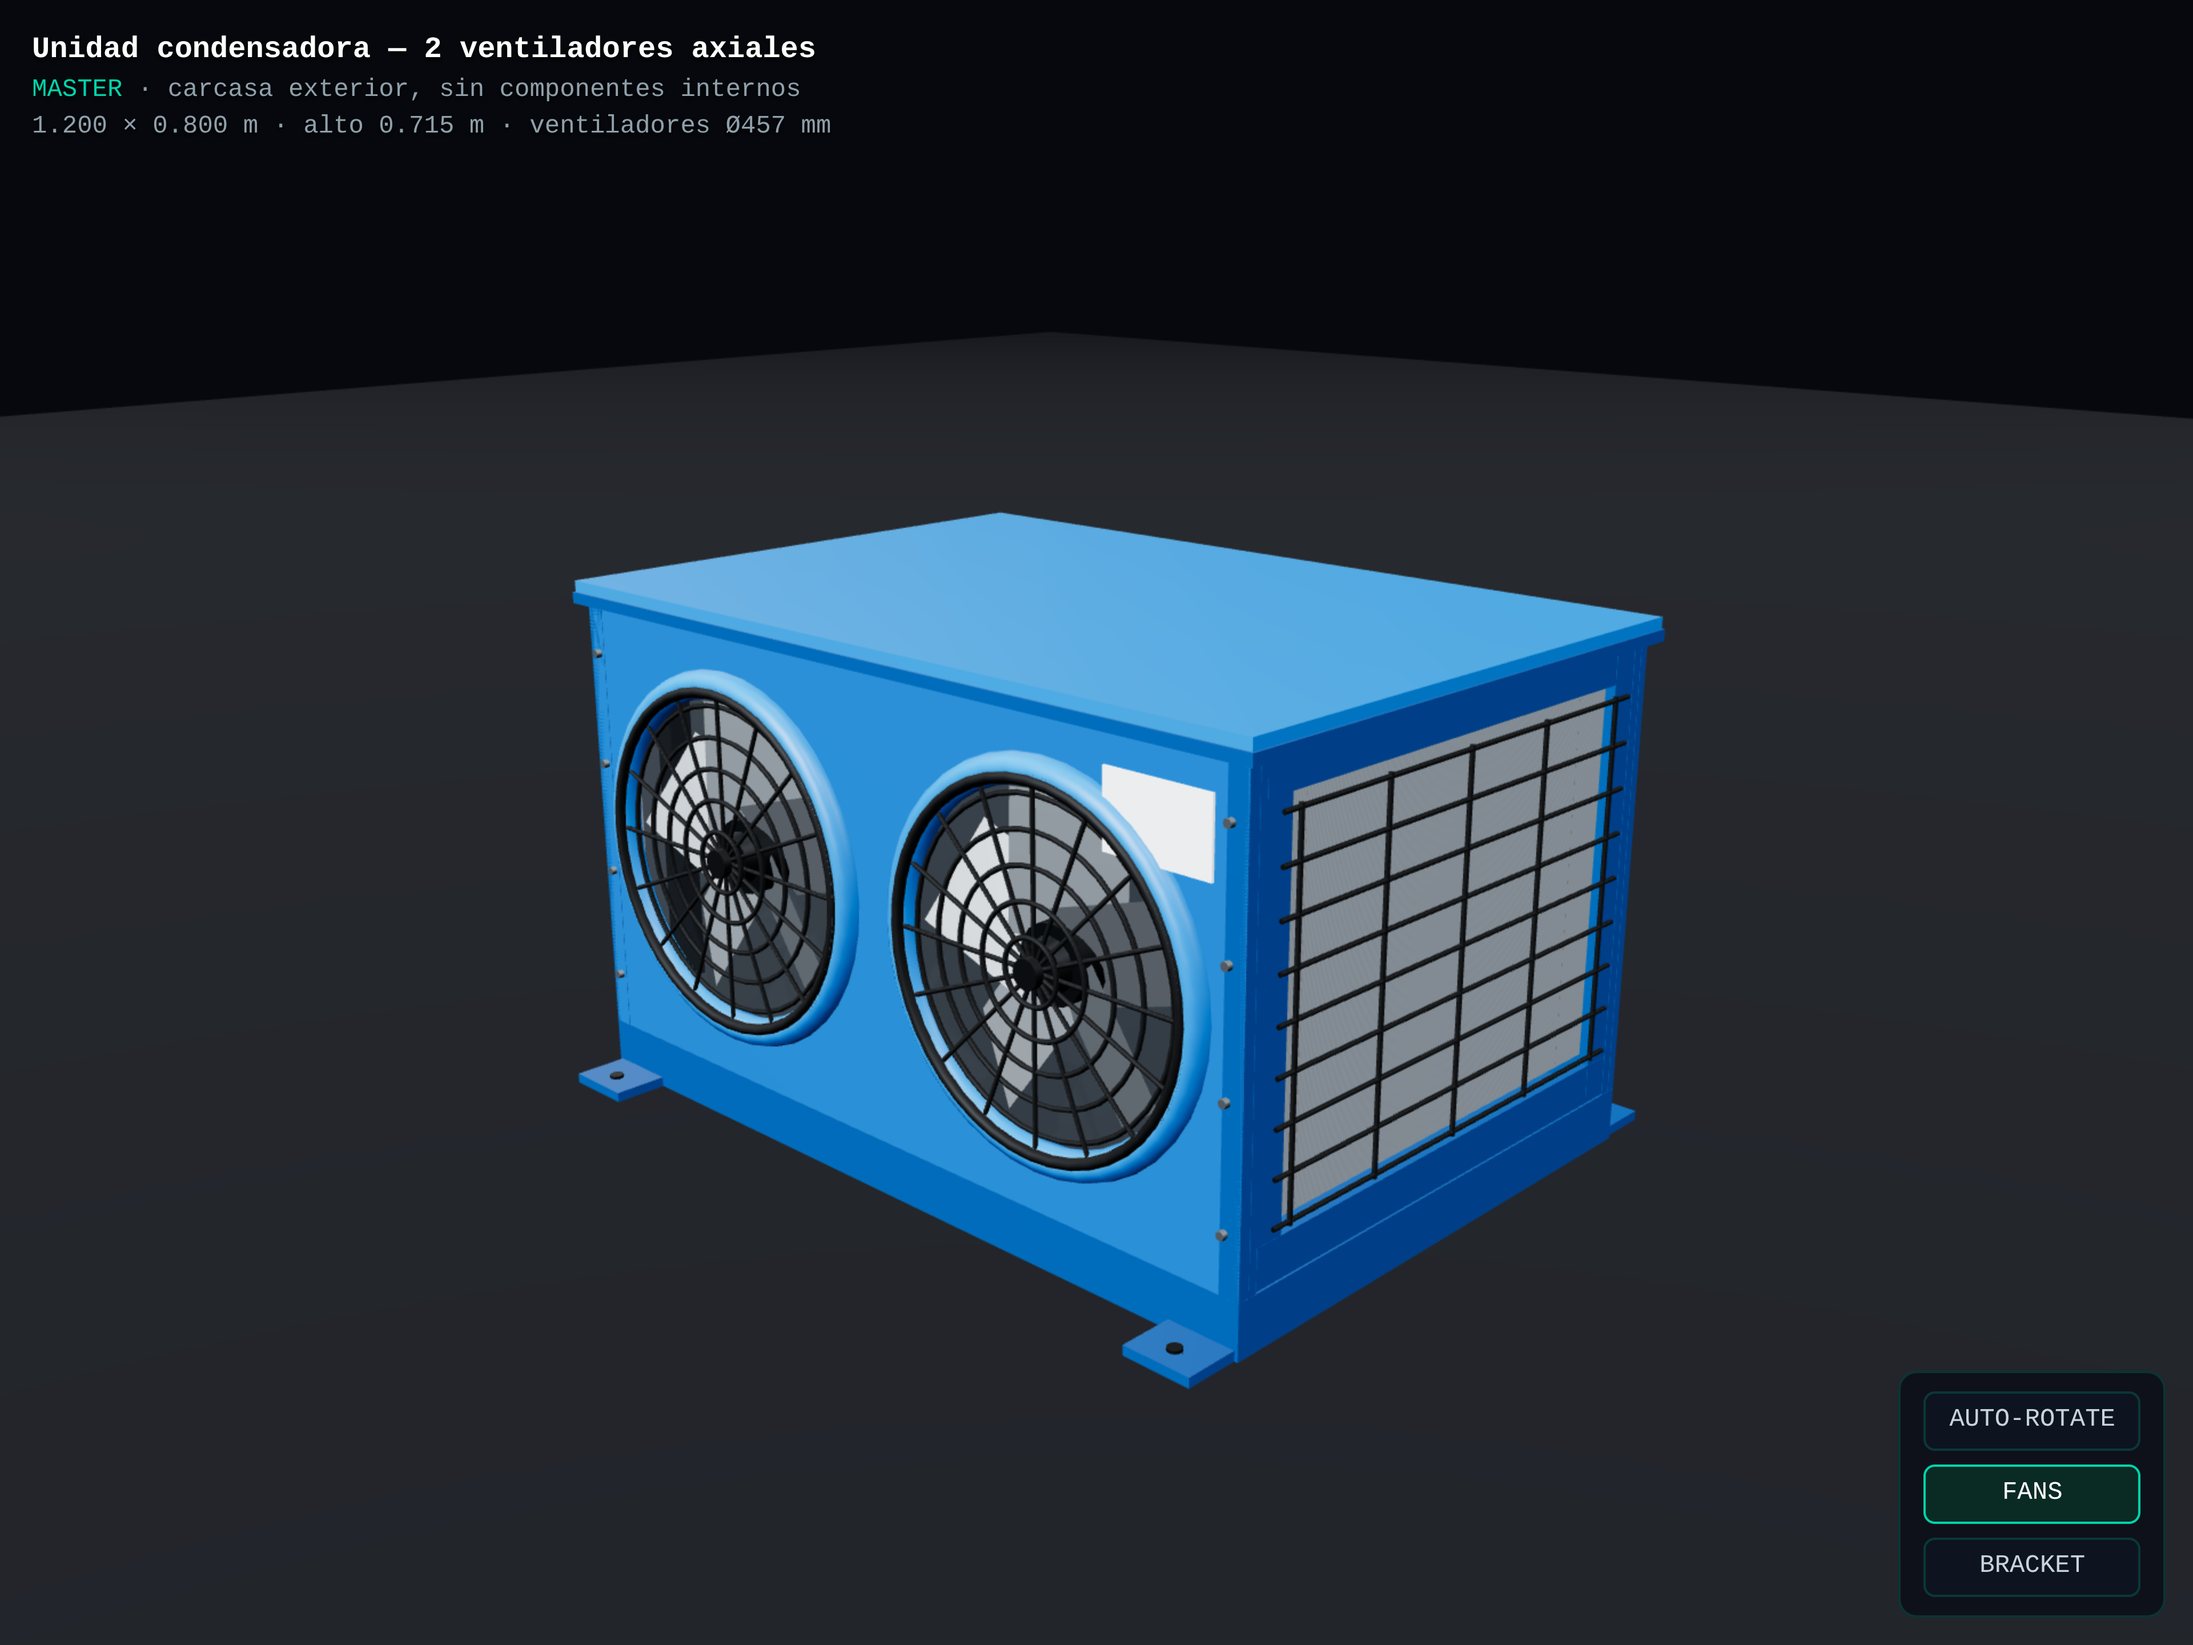
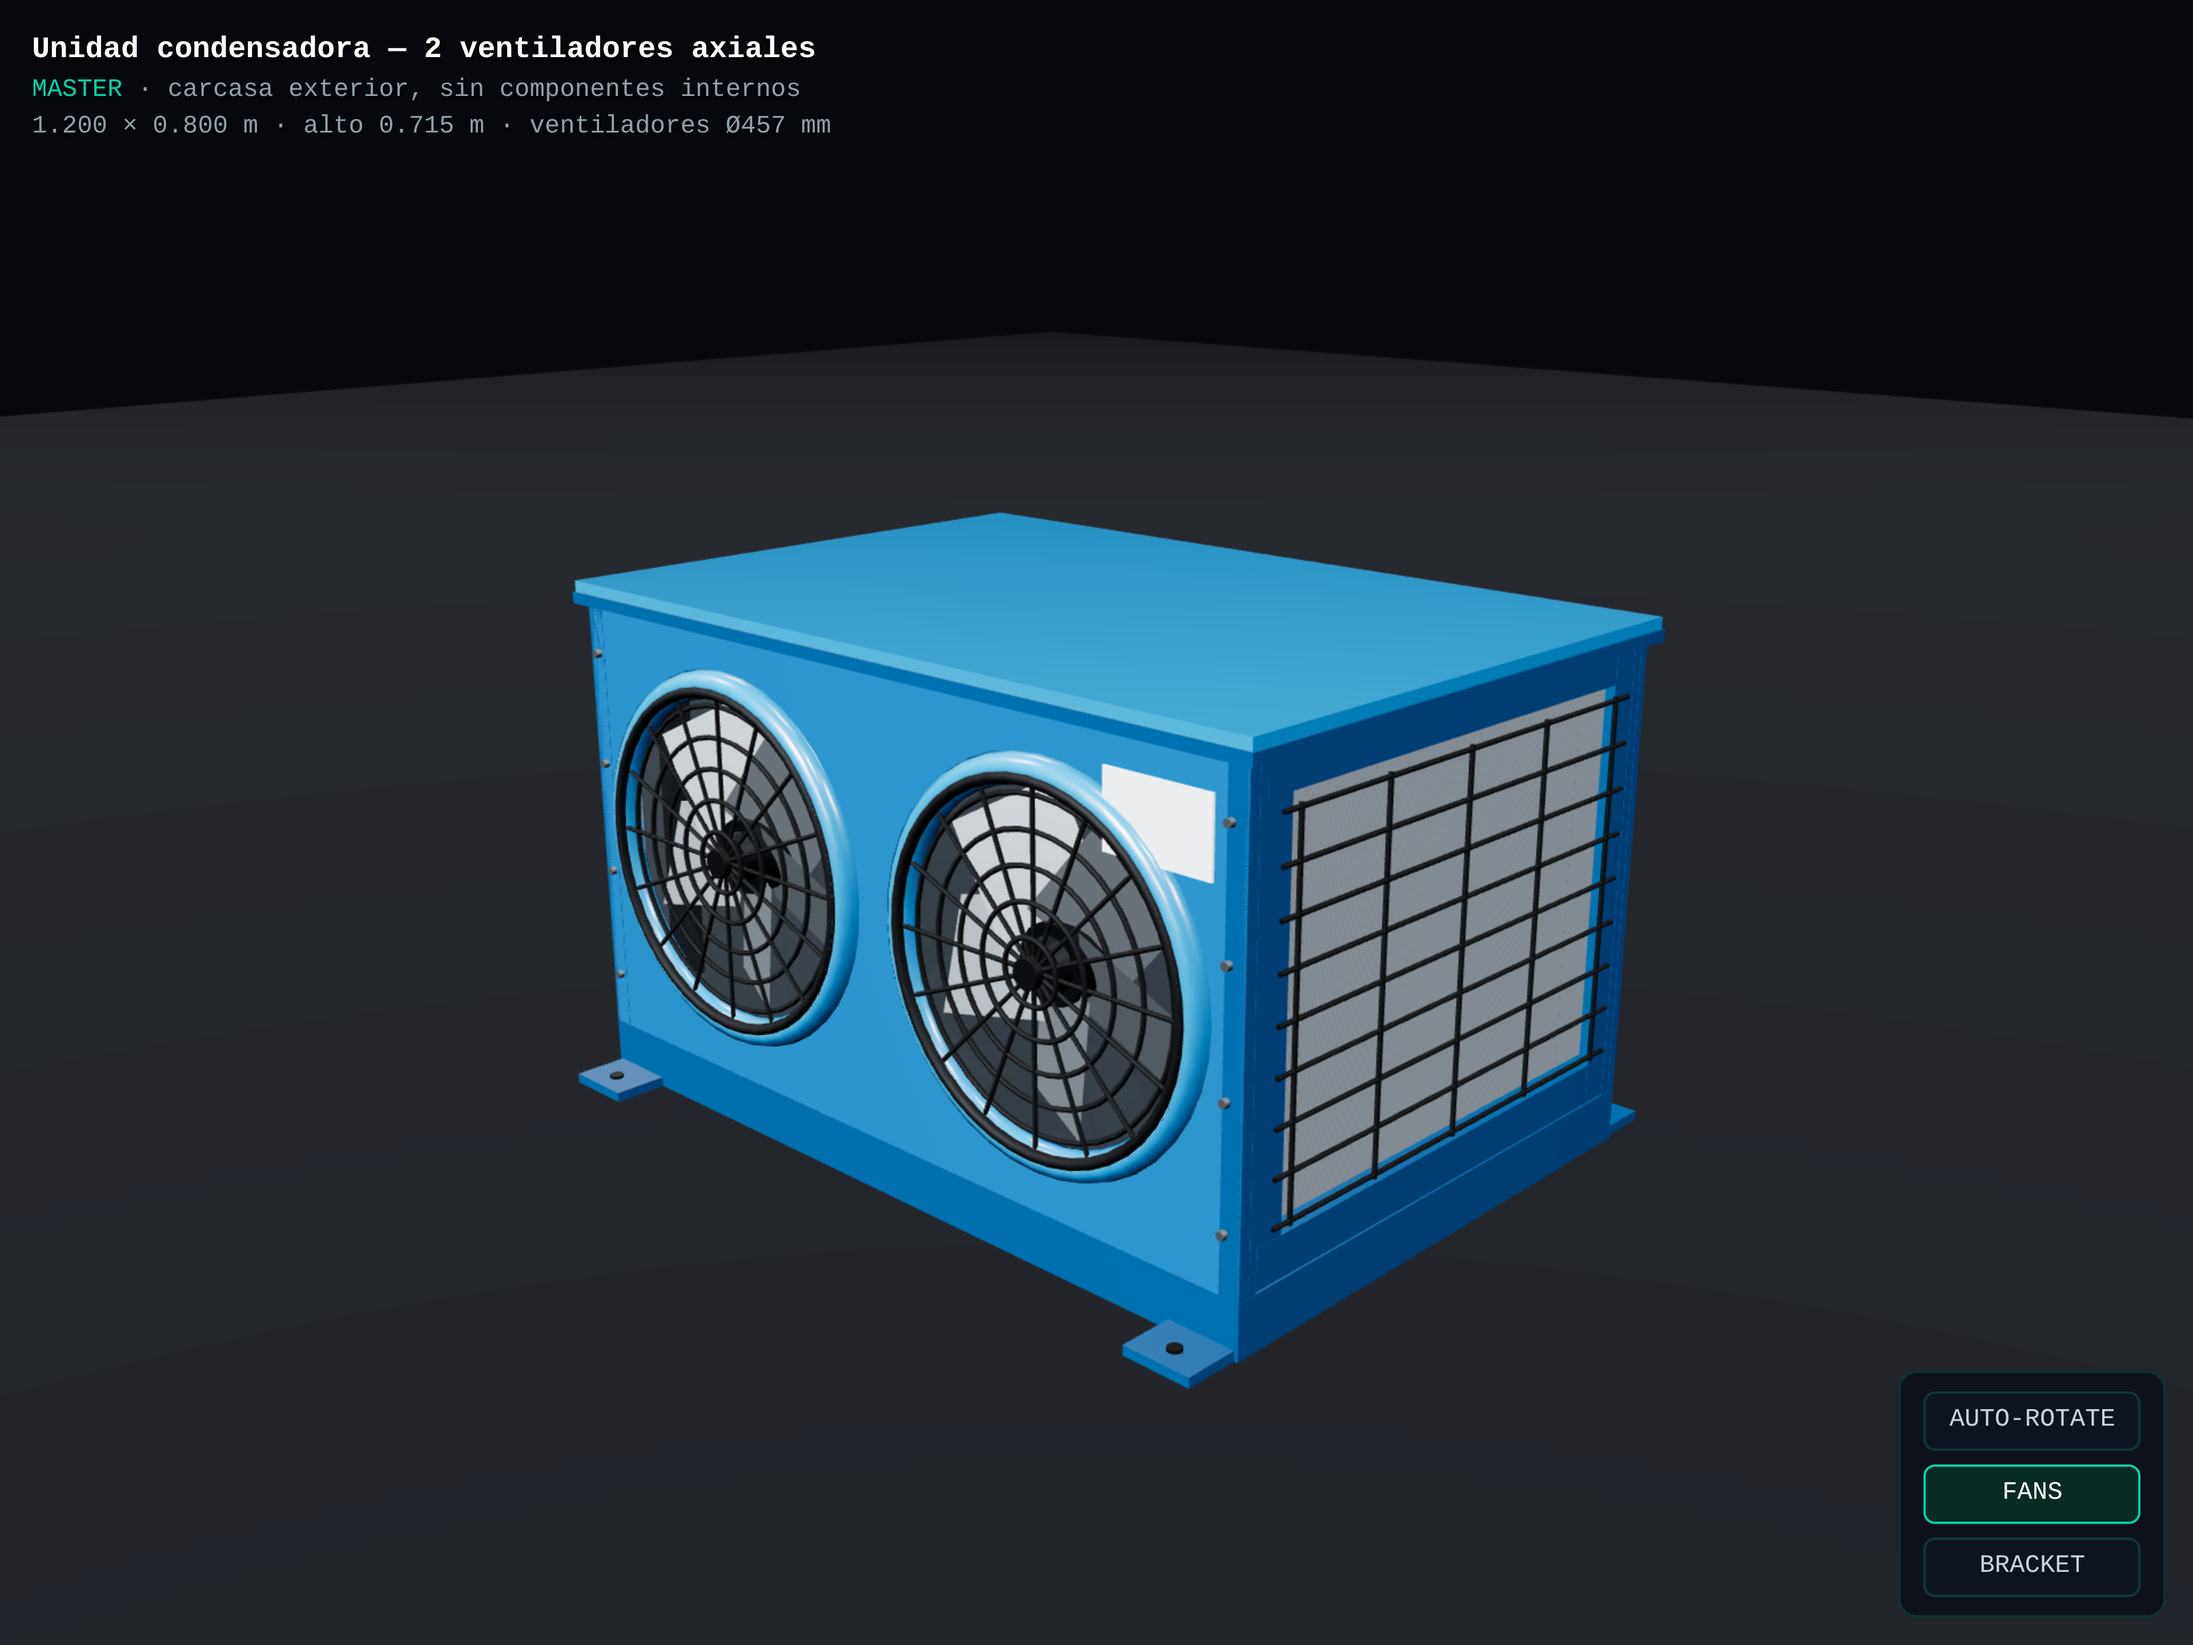
fix(condensadora): paint the casing as clearcoated sheet, not flat colour
The casing was metalness 0 with no specular layer, so the RoomEnvironment IBL
never landed on it and it read as a toy — the same flat-material look the plant
viewer had at v16, before v17 added image-based lighting.

Paint is a dielectric with a clear layer on top: metalness stays 0 to keep the
pigment, clearcoat supplies the sheen. An intermediate metalness 0.35 was tried
first and measured WORSE, which is why the final value is not a compromise:

  patch            v16-like   metalness 0.35   dielectric + clearcoat
  top deck         lum 162    lum  84          lum 135
  front panel      lum  83    lum  56          lum  83
  venturi ring     sd  44.9   sd   82.9        sd   82.6

Metalness 0.35 bought the specular response (ring spread 44.9 -> 82.9) by
spending a third of the diffuse in a scene with little to reflect, so every
large face went dark. The clearcoat form keeps the diffuse of the first and the
specular response of the second.

clearcoat compiles fine under SwiftShader (34 s, console clean); it is
transmission that stalls it.

Changed region(s): [[0.25, 0.3125, 0.75, 0.4375], [0.4062, 0.4688, 0.5312, 0.7188], [0.2812, 0.4062, 0.375, 0.5938]]

diff --git a/disenos/nave-panccadia/equipos/condensadora/condensadora.html b/disenos/nave-panccadia/equipos/condensadora/condensadora.html
@@ -110,12 +110,27 @@ function brushedRoughTex(){
 }
 const roughMap = brushedRoughTex();
 
+// PAINTED SHEET STEEL, not plastic. The first version set metalness 0 on the
+// blue by the near-binary rule, which is right for MATT paint and wrong here:
+// a powder-coated industrial casing carries a specular clear layer, so it
+// returns the environment as a broad sheen. At metalness 0 it returns nothing,
+// the RoomEnvironment IBL never lands on it, and the result reads as a toy —
+// the flat-material look v16 had before v17 added the IBL at all.
+// clearcoat is a MeshPhysicalMaterial feature and is headless-safe; it is
+// TRANSMISSION that stalls the SwiftShader shader compile, not this.
+// Paint is a DIELECTRIC with a specular clear layer on top: metalness 0 keeps
+// the pigment's colour, clearcoat supplies the sheen. The intermediate value
+// tried first (0.35) is neither — it removed a third of the diffuse in a scene
+// with little to reflect, and MEASURED darker: the top deck fell from luminance
+// 160 to 85 while only the small curved parts gained. Metalness is a near-binary
+// physical fact, not a gloss slider; gloss is roughness and clearcoat.
+const paint = (hex, rough) => new THREE.MeshPhysicalMaterial({
+  color: hex, metalness: 0.0, roughness: rough,
+  clearcoat: 0.9, clearcoatRoughness: 0.12, envMapIntensity: 1.4 });
 const M = {
-  // powder-coated blue: a painted dielectric, so metalness stays 0 — the
-  // near-binary rule. Two tones so the silhouette is not one flat prism.
-  blue:  new THREE.MeshStandardMaterial({ color:0x1663ad, metalness:0.0, roughness:0.42 }),
-  blueD: new THREE.MeshStandardMaterial({ color:0x114e88, metalness:0.0, roughness:0.46 }),
-  blueL: new THREE.MeshStandardMaterial({ color:0x1d76c6, metalness:0.0, roughness:0.40 }),
+  blue:  paint(0x1a5f92, 0.36),
+  blueD: paint(0x134a73, 0.40),
+  blueL: paint(0x2378ad, 0.32),
   // aluminium coil fins, seen edge-on through the side louvres
   // Aluminium fin pack. metalness 0.35, NOT 0.85, and the reason is measured
   // rather than aesthetic: at 0.85 the face is almost pure mirror, so its value
